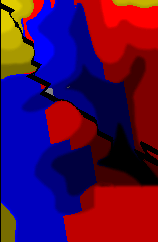
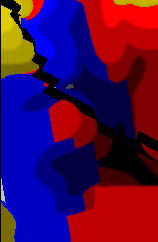
Added height adjustment and dip/strike calculation

diff --git a/main.py b/main.py
@@ -21,9 +21,11 @@ for x in range(0, siz[1]):
     st = ""
     for y in range(siz[0]-1, 0, -1):
         ar = p[y, x]
-        height = ar[2]*10
+        height = ar[2]
         topography[y][x] = height
         #print(str(x) + ", " + str(y) + ", " + str(height))
+
+znormal = 47/500
 
 
 def cross(v_a, v_b):
@@ -44,15 +46,13 @@ def dot(v_a, v_b):
     return x
 
 class Bed:
-    def __init__(self, name, points, thickness, faults_above, faults_below, z_index, colour, znormalisation):
+    def __init__(self, name, points, thickness, faults_above, faults_below, z_index, colour):
         self.points = points
-        self.name = name
-        self.thickness = thickness # Thickness above points. If this is the top surface make negative.
-        self.get_indices()
-        self.znormal = znormalisation
         for i in range(0, len(self.points)):
-            self.points[i][2] = self.points[i][2]*znormalisation # Account for the fact that x and y plane 47mm goes to 500m. Adjust all z
-        #self.indices = []
+            self.points[i][2] = float(self.points[i][2]) * 0.1
+        self.name = name
+        self.thickness = thickness * 0.1# Thickness above points. If this is the top surface make negative.
+        self.get_indices()
         self.dip = 0
         self.strike = 0
         self.bounding_faults_top = faults_above
@@ -75,12 +75,16 @@ class Bed:
     def get_orientation(self):
         #a.b = |a||b|cosx
         #x = acos((a.b)/(|a||b|))
-        self.dip = int(90-round((180/math.pi)*math.acos(dot(self.indices[:3], [0, 0, 1])/magnitude(self.indices[:3]))))
+
+        vec = self.indices[:3]
+
+        if (magnitude(vec) != 0):
+            self.dip = int(round((180/math.pi)*math.acos(dot(vec, [0, 0, 1])/magnitude(vec))))
         self.strike = 0
-        mag = magnitude(self.indices[:3])
-        print(str(self.indices[0]/mag) + ", "+str(self.indices[1]/mag)+", "+str(self.indices[2]/mag))
+        #mag = magnitude(vec[:3])
+        #print(str(vec[0]/mag) + ", "+str(vec[1]/mag)+", "+str(vec[2]/mag))
         # let x = 0, 100. z = 100. Calculate y. Use atan(y/100)
-        if (self.indices[1] == 0):
+        if (vec[1] == 0):
             return 0
         delta_y = ((self.indices[3] - self.indices[2]*100 - self.indices[0]*0)/self.indices[1]) - ((self.indices[3] - self.indices[2]*100 - self.indices[0]*100)/self.indices[1])
         self.strike = int(90+round((180/math.pi)*math.atan(delta_y/100)))
@@ -99,18 +103,18 @@ class Bed:
 beds = []
 faults = []
 
-faults.append(Bed("fault", [[159, 81, 100], [0,207, 500], [95,125,200]], 50, [], [], 9, [0,0,0], 500/47))
+faults.append(Bed("fault", [[159, 81, 100], [0,207, 500], [95,125,200]], -10, [], [], 9, [0,0,0]))
 
-beds.append(Bed("Not sure", [[159, 81, 100], [0,207, 500], [95,125,200]], 50, [], [], 9, [0,0,0], 500/47))
+beds.append(Bed("Not sure", [[159, 81, 100], [0,207, 500], [95,125,200]], -100, [], [], 9, [0,0,0]))
 
-beds.append(Bed("Sandstone W", [[67, 0, 300], [45, 242, 200], [71, 91, 200]], 900, [0],[],1, [1,0,0], 500/47)) # Sandstone
-beds.append(Bed("Shale W", [[67, 0, 300], [45, 242, 200], [71, 91, 200]], -300, [0],[],1, [0, 0, 1], 500/47)) # Shale
+beds.append(Bed("Sandstone W", [[67, 0, 300], [45, 242, 200], [71, 91, 200]], 900, [0],[],1, [1,0,0])) # Sandstone
+beds.append(Bed("Shale W", [[67, 0, 300], [45, 242, 200], [71, 91, 200]], -300, [0],[],1, [0, 0, 1])) # Shale
 
-beds.append(Bed("Sandstone E", [[47, 182, 500], [71, 147, 400], [55, 242, 400]], 900, [],[0],1, [1,0,0], 500/47)) # Sandstone
-beds.append(Bed("Shale E", [[47, 182, 500], [71, 147, 400], [55, 242, 400]], -300, [],[0],1, [0, 0, 1], 500/47)) # Shale bounding faults bottom 0
+beds.append(Bed("Sandstone E", [[47, 182, 500], [71, 147, 400], [55, 242, 400]], 900, [],[0],1, [1,0,0])) # Sandstone
+beds.append(Bed("Shale E", [[47, 182, 500], [71, 147, 400], [55, 242, 400]], -300, [],[0],1, [0, 0, 1])) # Shale bounding faults bottom 0
 
-beds.append(Bed("Unconformity W", [[47, 182, 400], [71, 147, 400], [55, 242, 400]], 700, [0],[],4, [0.44, 0.4,0], 500/47)) # Unconformity
-beds.append(Bed("Unconformity E", [[47, 182, 600], [71, 147, 600], [55, 242, 600]], 700, [],[0],3, [0.44, 0.4,0], 500/47)) # Unconformity
+beds.append(Bed("Unconformity W", [[47, 182, 400], [71, 147, 400], [55, 242, 400]], 700, [0],[],4, [0.44, 0.4,0])) # Unconformity
+beds.append(Bed("Unconformity E", [[47, 182, 600], [71, 147, 600], [55, 242, 600]], 700, [],[0],3, [0.44, 0.4,0])) # Unconformity
 
 
 for i in beds:
@@ -158,7 +162,7 @@ def image_over_z(z, topographyr, filename):
             qwer = beds[qw].colour
             if (qw == -1):
                 qwer = [1, 1, 1]
-            pixels[x, y] = (int(qwer[0]*255*2*z/800), int(qwer[1]*255*2*z/800), int(qwer[2]*255*2*z/800))
+            pixels[x, y] = (int(qwer[0]*255*2*z/80), int(qwer[1]*255*2*z/80), int(qwer[2]*255*2*z/80))
 
     img.save(filename)
 
